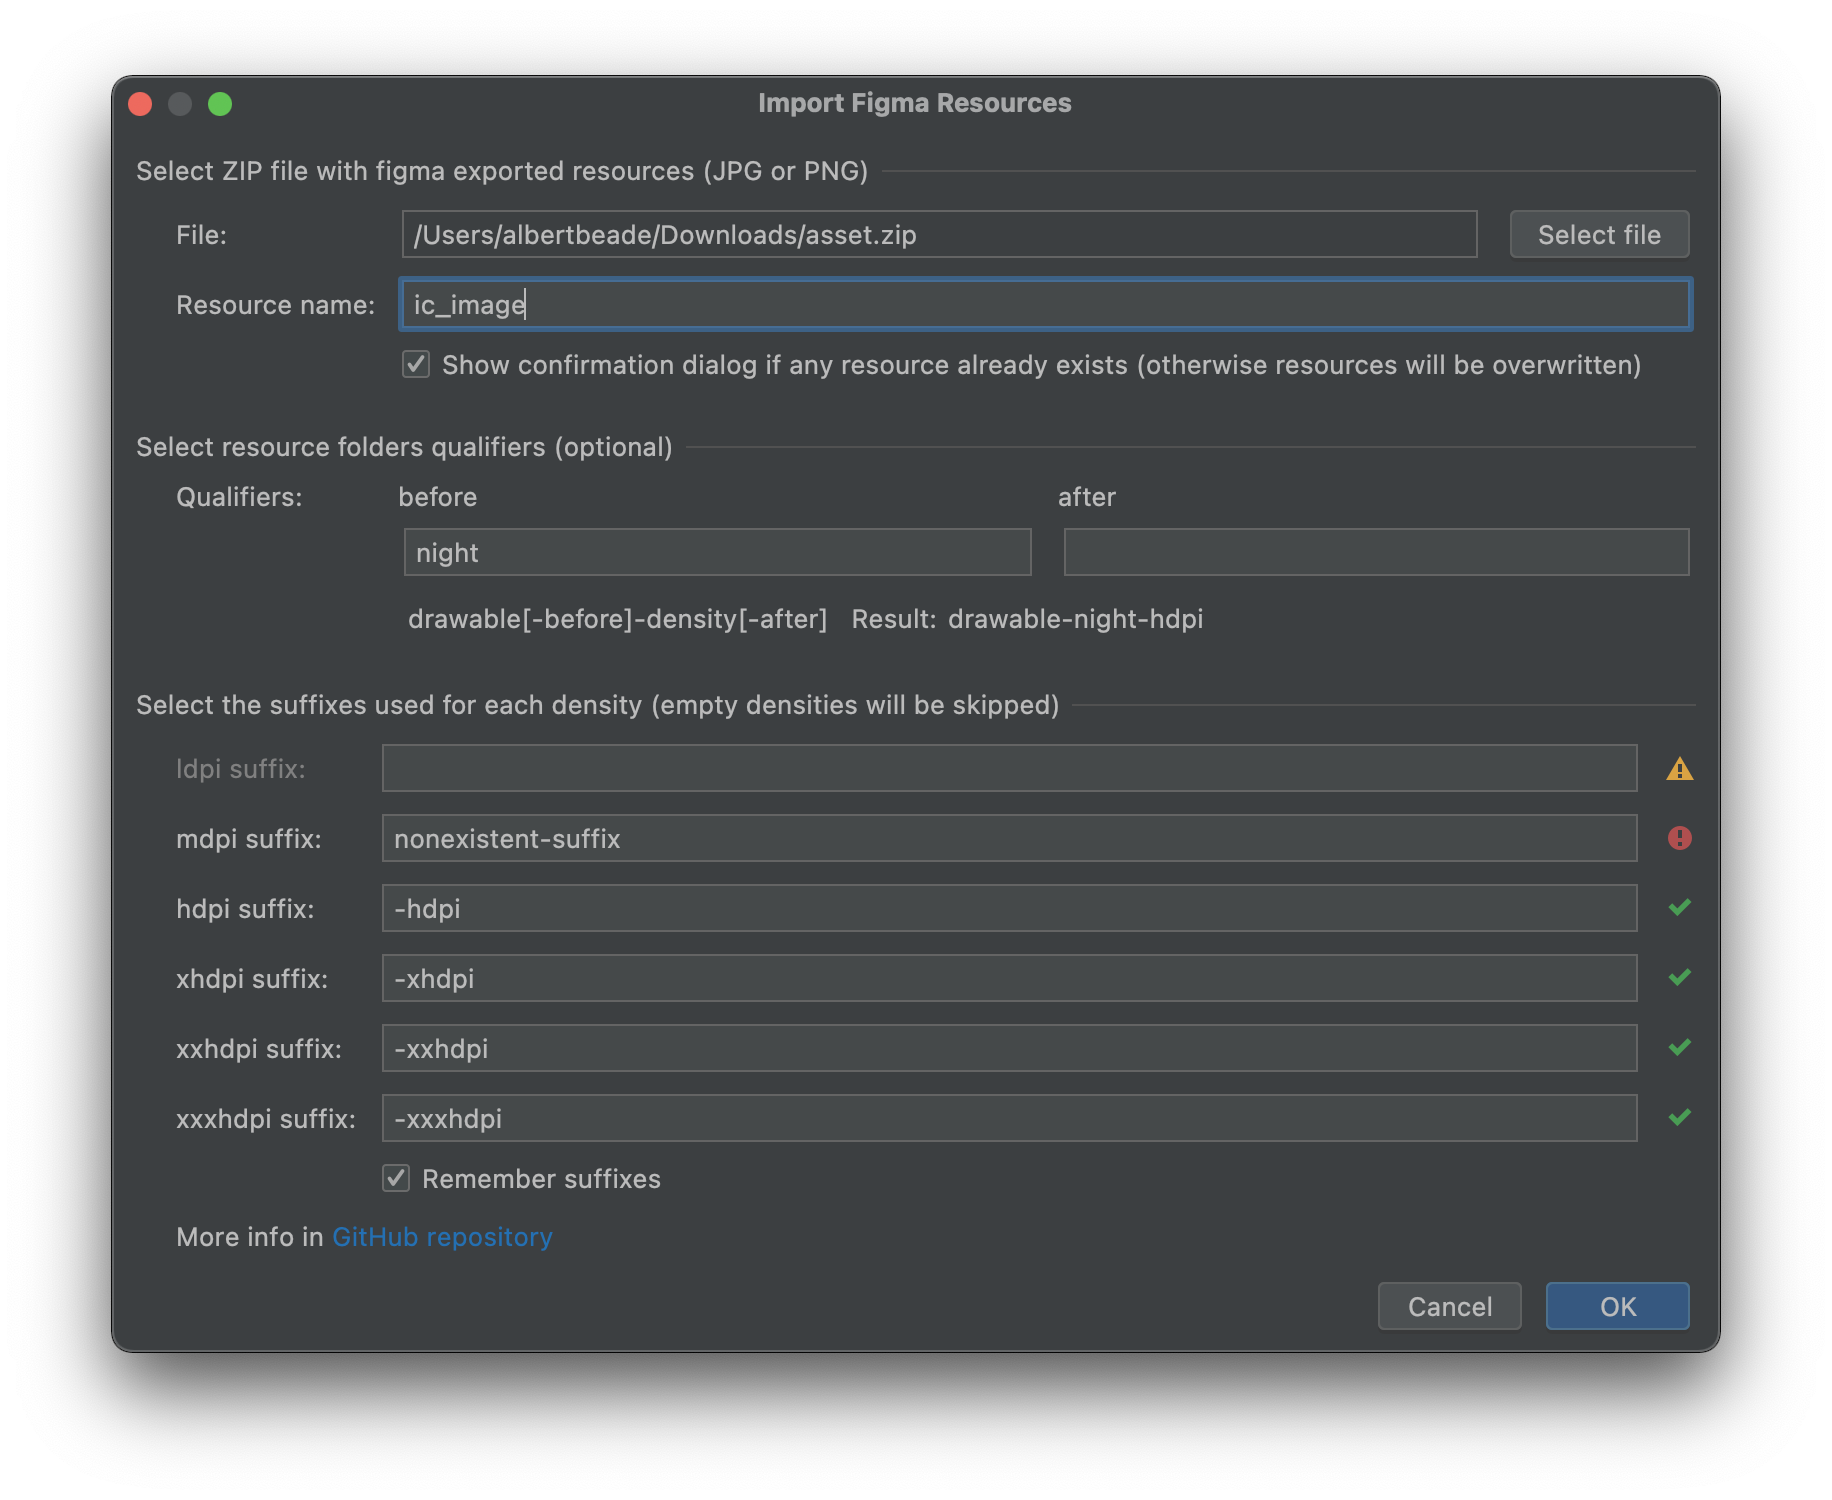
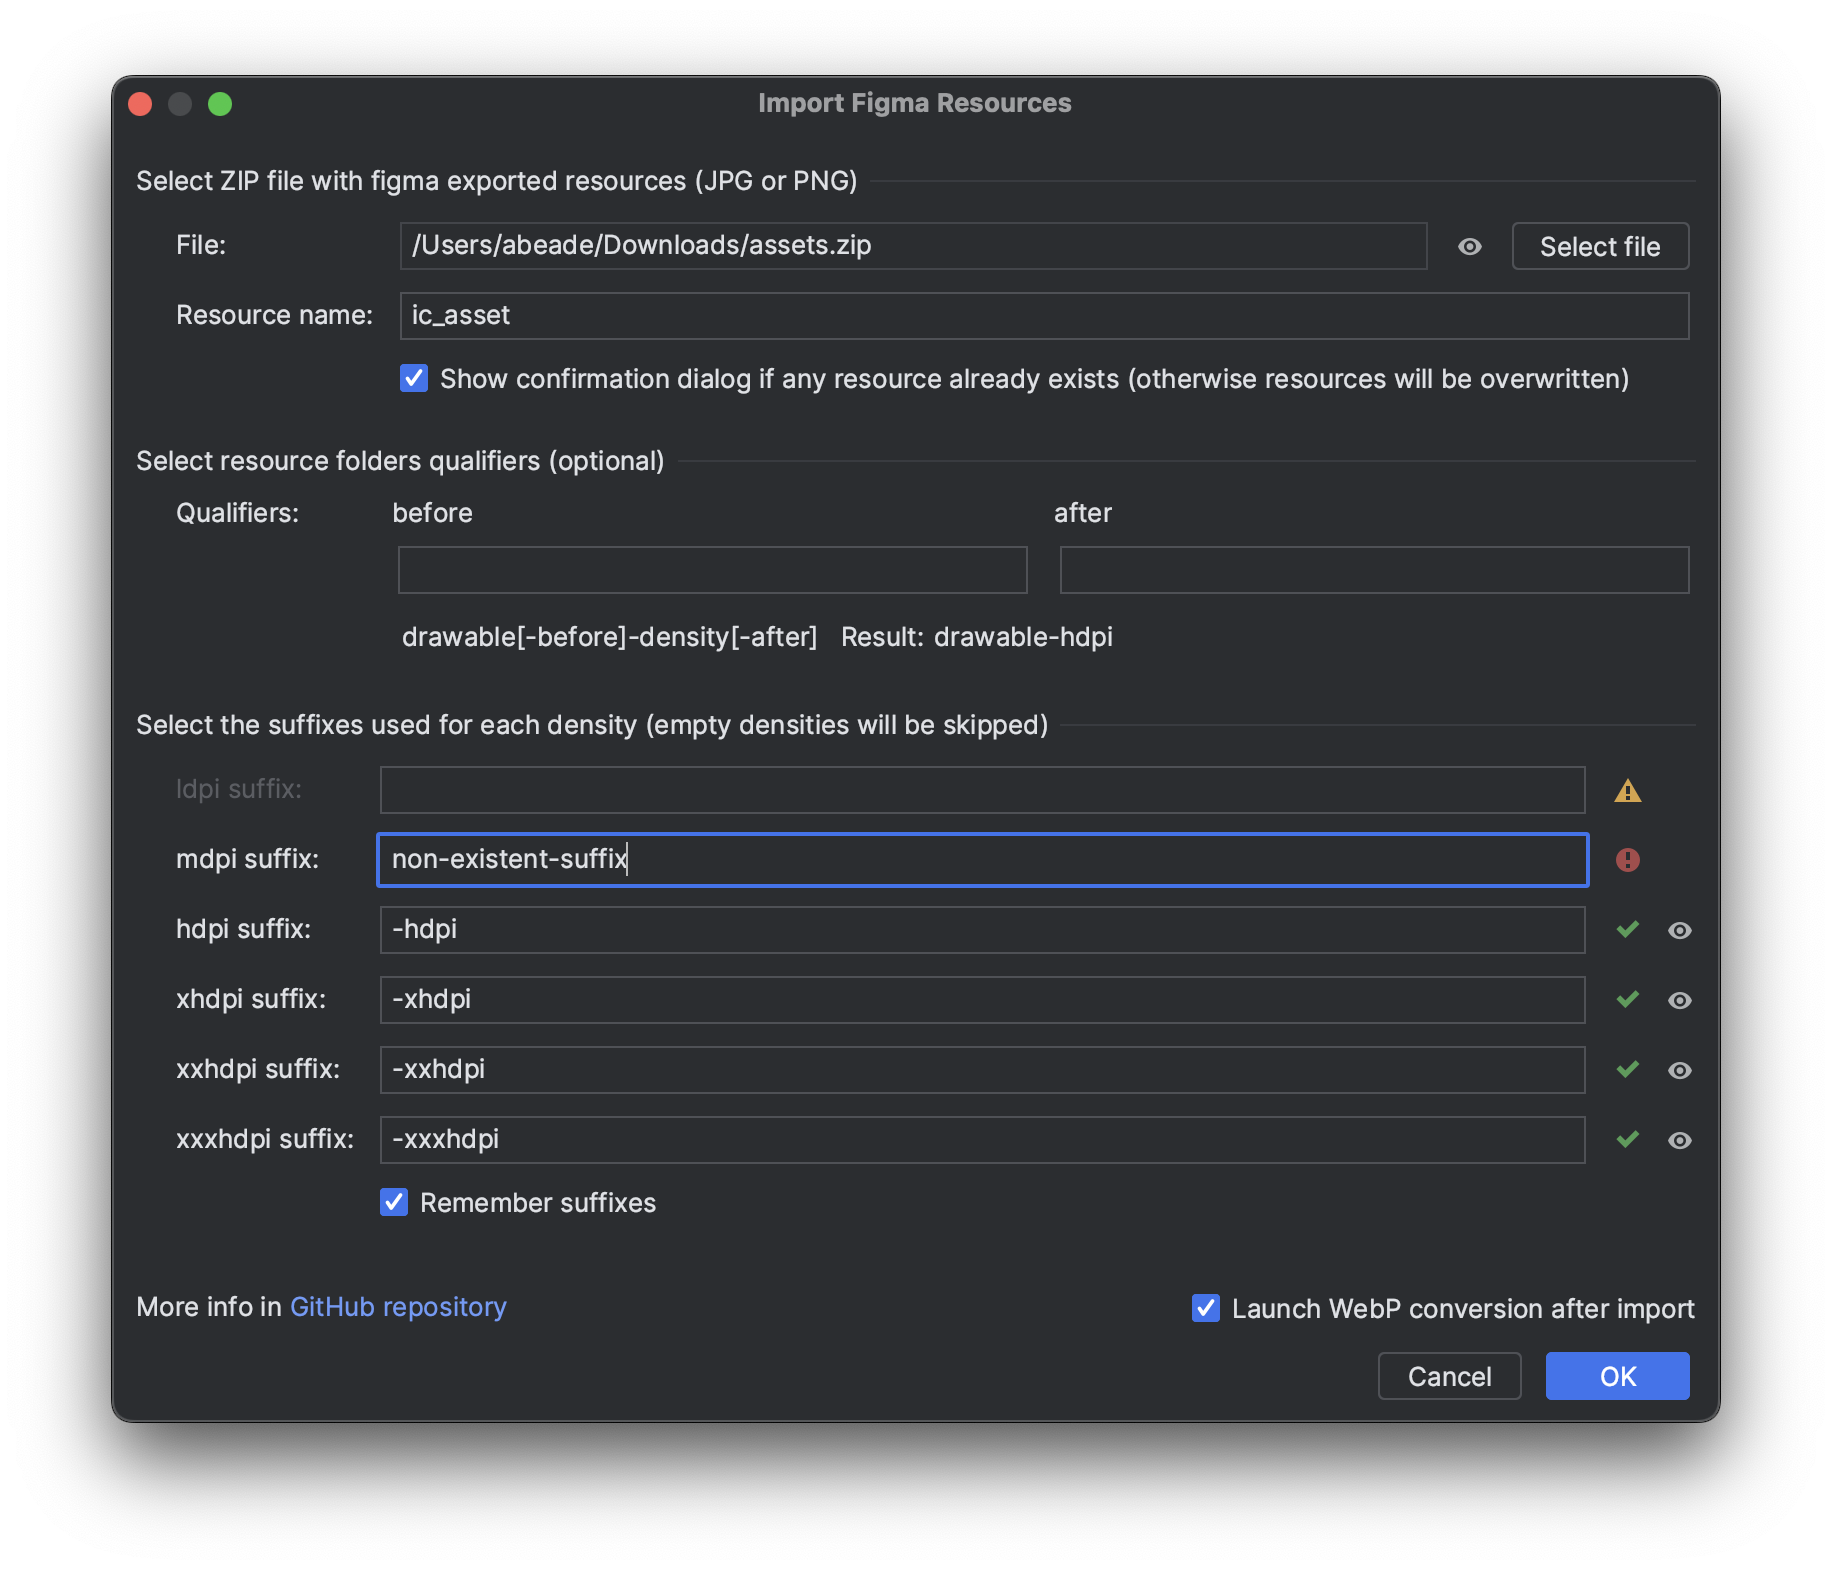
Launch webp conversion (#14)

Changed region(s): [[0.0622, 0.46, 0.9334, 0.8587], [0.0622, 0.0307, 0.9334, 0.4293], [0.0622, 0.828, 0.9334, 0.92]]

diff --git a/src/main/kotlin/com/abeade/plugin/figma/ImportAction.kt b/src/main/kotlin/com/abeade/plugin/figma/ImportAction.kt
@@ -1,23 +1,20 @@
 package com.abeade.plugin.figma
 
+import com.abeade.plugin.figma.utils.getMinSdkVersion
+import com.android.tools.idea.rendering.webp.ConvertToWebpAction
 import com.intellij.ide.util.PropertiesComponent
-import com.intellij.notification.Notification
+import com.intellij.notification.NotificationGroupManager
 import com.intellij.notification.NotificationType
-import com.intellij.notification.Notifications
 import com.intellij.openapi.actionSystem.AnAction
 import com.intellij.openapi.actionSystem.AnActionEvent
 import com.intellij.openapi.actionSystem.PlatformDataKeys
 import com.intellij.openapi.project.Project
-import com.intellij.openapi.ui.MessageType
-import com.intellij.openapi.ui.popup.Balloon
-import com.intellij.openapi.ui.popup.JBPopupFactory
 import com.intellij.openapi.util.io.FileUtil
+import com.intellij.openapi.vfs.LocalFileSystem
 import com.intellij.openapi.vfs.VfsUtil
 import com.intellij.openapi.vfs.VirtualFile
-import com.intellij.openapi.wm.WindowManager
 import com.intellij.psi.PsiElement
 import com.intellij.psi.impl.file.PsiDirectoryImpl
-import com.intellij.ui.awt.RelativePoint
 import java.io.File
 import java.io.FileOutputStream
 import java.util.zip.ZipEntry
@@ -40,10 +37,12 @@ class ImportAction : AnAction() {
     }
 
     override fun actionPerformed(anActionEvent: AnActionEvent) {
+        val project = anActionEvent.project ?: return
         val resPath = File(virtualFileRes.path)
         val dialog = ImportDialogWrapper(PropertiesComponent.getInstance(), resPath)
         val result = dialog.showAndGet()
         if (result) {
+            val destinationFiles = mutableListOf<File>()
             var createdItems = 0
             var updatedItems = 0
             val data = dialog.importData!!
@@ -56,7 +55,11 @@ class ImportAction : AnAction() {
                     if (existingDensities.isNotEmpty() &&
                         !ImportConfirmationDialogWrapper(data.resource, existingDensities).showAndGet()
                     ) {
-                        showMessage(anActionEvent.project!!, "Import was cancelled by user. No resources has been created nor updated.", true)
+                        showNotification(
+                            project = project,
+                            message = "Import was cancelled by user.<br/>No resources has been created nor updated.",
+                            type = NotificationType.WARNING
+                        )
                         return
                     }
                 }
@@ -75,6 +78,7 @@ class ImportAction : AnAction() {
                             } else {
                                 createdItems++
                             }
+                            destinationFiles.add(destinationFile)
                             val inStream = zipFile.getInputStream(it)
                             val outStream = FileOutputStream(destinationFile)
                             FileUtil.copy(inStream, outStream)
@@ -85,13 +89,27 @@ class ImportAction : AnAction() {
                 }
             }
             if (updatedItems == 0 && createdItems == 0) {
-                showMessage(anActionEvent.project!!, "Figma import no resources has benn created or updated", true)
+                showNotification(
+                    project = project,
+                    message = "No resources has been created nor updated.",
+                    type = NotificationType.ERROR
+                )
             } else {
-                VfsUtil.markDirtyAndRefresh(true, true, true, virtualFileRes)
-                when {
-                    updatedItems == 0 -> showMessage(anActionEvent.project!!, "$createdItems resources has been created", false)
-                    createdItems == 0 -> showMessage(anActionEvent.project!!, "$updatedItems resources has been updated", false)
-                    else -> showMessage(anActionEvent.project!!, "$createdItems resources has been created and $updatedItems resources has been updated", false)
+                VfsUtil.markDirtyAndRefresh(
+                    /* async = */ !data.launchWebPConversion,
+                    /* recursive = */ true,
+                    /* reloadChildren = */ true,
+                    /* ...files = */ virtualFileRes)
+                val message = when {
+                    updatedItems == 0 -> "$createdItems resources has been created"
+                    createdItems == 0 -> "$updatedItems resources has been updated"
+                    else -> "$createdItems resources has been created and $updatedItems resources has been updated"
+                }
+                showNotification(project = project, message = message, type = NotificationType.INFORMATION)
+                if (data.launchWebPConversion) {
+                    val localFileSystem = LocalFileSystem.getInstance()
+                    val array = destinationFiles.mapNotNull { localFileSystem.findFileByIoFile(it) }.toTypedArray()
+                    ConvertToWebpAction().perform(project, anActionEvent.getMinSdkVersion(), array)
                 }
             }
         }
@@ -114,20 +132,11 @@ class ImportAction : AnAction() {
         list
     }
 
-    private fun showMessage(project: Project, message: String, isError: Boolean) {
-        Notifications.Bus.notify(Notification(
-            "Figma import",
-            "Figma import finished",
-            message,
-            if (isError) NotificationType.ERROR else NotificationType.INFORMATION
-        ))
-        val statusBar = WindowManager.getInstance()
-            ?.getStatusBar(project)
-        JBPopupFactory.getInstance()
-            ?.createHtmlTextBalloonBuilder(message, if (isError) MessageType.ERROR else MessageType.INFO, null)
-            ?.setFadeoutTime(5000)
-            ?.createBalloon()
-            ?.show(RelativePoint.getCenterOf(statusBar?.component!!), Balloon.Position.above)
+    private fun showNotification(project: Project, message: String, type: NotificationType) {
+        NotificationGroupManager.getInstance()
+            .getNotificationGroup("Figma import")
+            .createNotification(message, type)
+            .notify(project)
     }
 
     private companion object {

diff --git a/src/main/kotlin/com/abeade/plugin/figma/ImportDialogWrapper.kt b/src/main/kotlin/com/abeade/plugin/figma/ImportDialogWrapper.kt
@@ -64,6 +64,7 @@ class ImportDialogWrapper(
         val override = propertiesComponent.getBoolean(OVERRIDE_KEY, true)
         val directory = propertiesComponent.getValue(DIRECTORY_KEY)
         val prefix = propertiesComponent.getValue(PREFIX_KEY) ?: RESOURCE_PREFIX
+        val launchWebP = propertiesComponent.getBoolean(WEBP_KEY)
 
         dialog = ImportDialog().apply {
             selectFileButton.addActionListener { openFile(directory) }
@@ -83,6 +84,7 @@ class ImportDialogWrapper(
             xhdpiField.text = xhdpi
             xxhdpiField.text = xxhdpi
             xxxhdpiField.text = xxxhdpi
+            checkBoxWebP.isSelected = launchWebP
             ldpiField.document.addDocumentListener(this@ImportDialogWrapper)
             mdpiField.document.addDocumentListener(this@ImportDialogWrapper)
             hdpiField.document.addDocumentListener(this@ImportDialogWrapper)
@@ -163,7 +165,6 @@ class ImportDialogWrapper(
 
     private fun findPreQualifiers(): Set<String> {
         val densities = Density.values().map { it.value }.sortedDescending()
-        @Suppress("RECEIVER_NULLABILITY_MISMATCH_BASED_ON_JAVA_ANNOTATIONS")
         return resPath.listFiles(File::isDirectory)
             .map { it.name }
             .filter { it.startsWith(FOLDER_DRAWABLE) && it.containsAny(densities) }
@@ -179,7 +180,6 @@ class ImportDialogWrapper(
 
     private fun findPostQualifiers(): Set<String> {
         val densities = Density.values().map { it.value }.sortedDescending()
-        @Suppress("RECEIVER_NULLABILITY_MISMATCH_BASED_ON_JAVA_ANNOTATIONS")
         return resPath.listFiles(File::isDirectory)
             .map { it.name }
             .filter { it.startsWith(FOLDER_DRAWABLE) && it.containsAny(densities) }
@@ -191,7 +191,14 @@ class ImportDialogWrapper(
 
     override fun doOKAction() {
         val skip =  propertiesComponent.isTrueValue(SKIP_KEY)
-        data = ImportData(file, dialog.resourceField.text, result, dialog.overrideCheckBox.isSelected, skip)
+        data = ImportData(
+            file = file,
+            resource = dialog.resourceField.text,
+            matches = result,
+            confirmOverride = dialog.overrideCheckBox.isSelected,
+            skipResourcesWithNoFolder = skip,
+            launchWebPConversion = dialog.checkBoxWebP.isSelected
+        )
         val remember = dialog.rememberCheckBox.isSelected
         propertiesComponent.setValue(LDPI_KEY, dialog.ldpiField.text.takeIf { remember })
         propertiesComponent.setValue(MDPI_KEY, dialog.mdpiField.text.takeIf { remember })
@@ -202,6 +209,7 @@ class ImportDialogWrapper(
         propertiesComponent.setValue(SAVE_KEY, remember)
         propertiesComponent.setValue(OVERRIDE_KEY, dialog.overrideCheckBox.isSelected)
         propertiesComponent.setValue(DIRECTORY_KEY, file?.parent)
+        propertiesComponent.setValue(WEBP_KEY, dialog.checkBoxWebP.isSelected)
         super.doOKAction()
     }
 
@@ -431,6 +439,7 @@ class ImportDialogWrapper(
         private const val OVERRIDE_KEY = "#com.abeade.plugin.figma.importDialog.override"
         private const val DIRECTORY_KEY = "#com.abeade.plugin.figma.importDialog.directory"
         private const val DIMENSION_SERVICE_KEY = "#com.abeade.plugin.figma.importDialog"
+        private const val WEBP_KEY = "#com.abeade.plugin.figma.importDialog.launchWebP"
 
         private const val QUALIFIER_SEPARATOR = "-"
         private const val FOLDER_DRAWABLE = "drawable$QUALIFIER_SEPARATOR"

diff --git a/src/main/kotlin/com/abeade/plugin/figma/utils/AnActionEventExtensions.kt b/src/main/kotlin/com/abeade/plugin/figma/utils/AnActionEventExtensions.kt
@@ -1,0 +1,37 @@
+package com.abeade.plugin.figma.utils
+
+import com.android.sdklib.AndroidVersion
+import com.android.tools.idea.model.AndroidModel
+import com.android.tools.idea.model.MergedManifestManager
+import com.android.tools.idea.model.queryMinSdkAndTargetSdkFromManifestIndex
+import com.intellij.openapi.actionSystem.AnActionEvent
+import com.intellij.openapi.actionSystem.LangDataKeys
+import com.intellij.openapi.module.Module
+import com.intellij.openapi.project.DumbService
+import org.jetbrains.android.facet.AndroidFacet
+import org.jetbrains.kotlin.idea.base.util.isAndroidModule
+
+fun AnActionEvent.getMinSdkVersion(): Int {
+    val module: Module? = getData(LangDataKeys.MODULE) ?: getData(LangDataKeys.MODULE_CONTEXT)
+    var minSdkVersion: Int = Int.MAX_VALUE
+    if (module != null && module.isAndroidModule()) {
+        val facet = AndroidFacet.getInstance(module)
+        if (facet != null) {
+            val minSdk = getMinSdkVersion(facet)
+            minSdkVersion = minSdk?.featureLevel ?: Int.MAX_VALUE
+        }
+    }
+    return minSdkVersion
+}
+
+private fun getMinSdkVersion(facet: AndroidFacet): AndroidVersion? = AndroidModel.get(facet)?.minSdkVersion
+    ?: try {
+        DumbService.getInstance(facet.module.project)
+            .runReadActionInSmartMode<AndroidVersion> { facet.queryMinSdkAndTargetSdkFromManifestIndex().minSdk }
+    } catch (_: Exception) {
+        try {
+            MergedManifestManager.getMergedManifestSupplier(facet.module).get().get().minSdkVersion
+        } catch (_: Exception) {
+            null
+        }
+    }

diff --git a/src/main/kotlin/com/abeade/plugin/figma/ui/ImportDialog.kt b/src/main/kotlin/com/abeade/plugin/figma/ui/ImportDialog.kt
@@ -17,6 +17,7 @@ class ImportDialog {
     lateinit var qualifierResultLabel: JLabel
     lateinit var ldpiField: JTextField
     lateinit var rememberCheckBox: JCheckBox
+    lateinit var checkBoxWebP: JCheckBox
     lateinit var mdpiField: JTextField
     lateinit var hdpiField: JTextField
     lateinit var xhdpiField: JTextField

diff --git a/src/main/kotlin/com/abeade/plugin/figma/ImportData.kt b/src/main/kotlin/com/abeade/plugin/figma/ImportData.kt
@@ -8,4 +8,5 @@ data class ImportData(
     val matches: Map<String, String>,
     val confirmOverride: Boolean,
     val skipResourcesWithNoFolder: Boolean,
+    val launchWebPConversion: Boolean,
 )

diff --git a/README.md b/README.md
@@ -29,6 +29,8 @@ Optionally, you can add qualifiers to the resource folders.
 
 The "Remember suffixes" check allows to store the given suffixes for next plugin executions.
 
+By selecting "Launch WebP conversion after import" check, the WebP conversion will be executed over the imported resources.
+
 # Setup
 You can change the proposed resource prefix and the folder creation policy in the plugin settings:
 

diff --git a/CHANGELOG.md b/CHANGELOG.md
@@ -14,6 +14,12 @@
 
 ### Fixed
 
+## 1.3.0 - 2023-10-23
+
+### Added
+
+- Allows to launch the WebP conversion when import finishes
+
 ## 1.2.1 - 2023-10-12
 
 ### Changed
